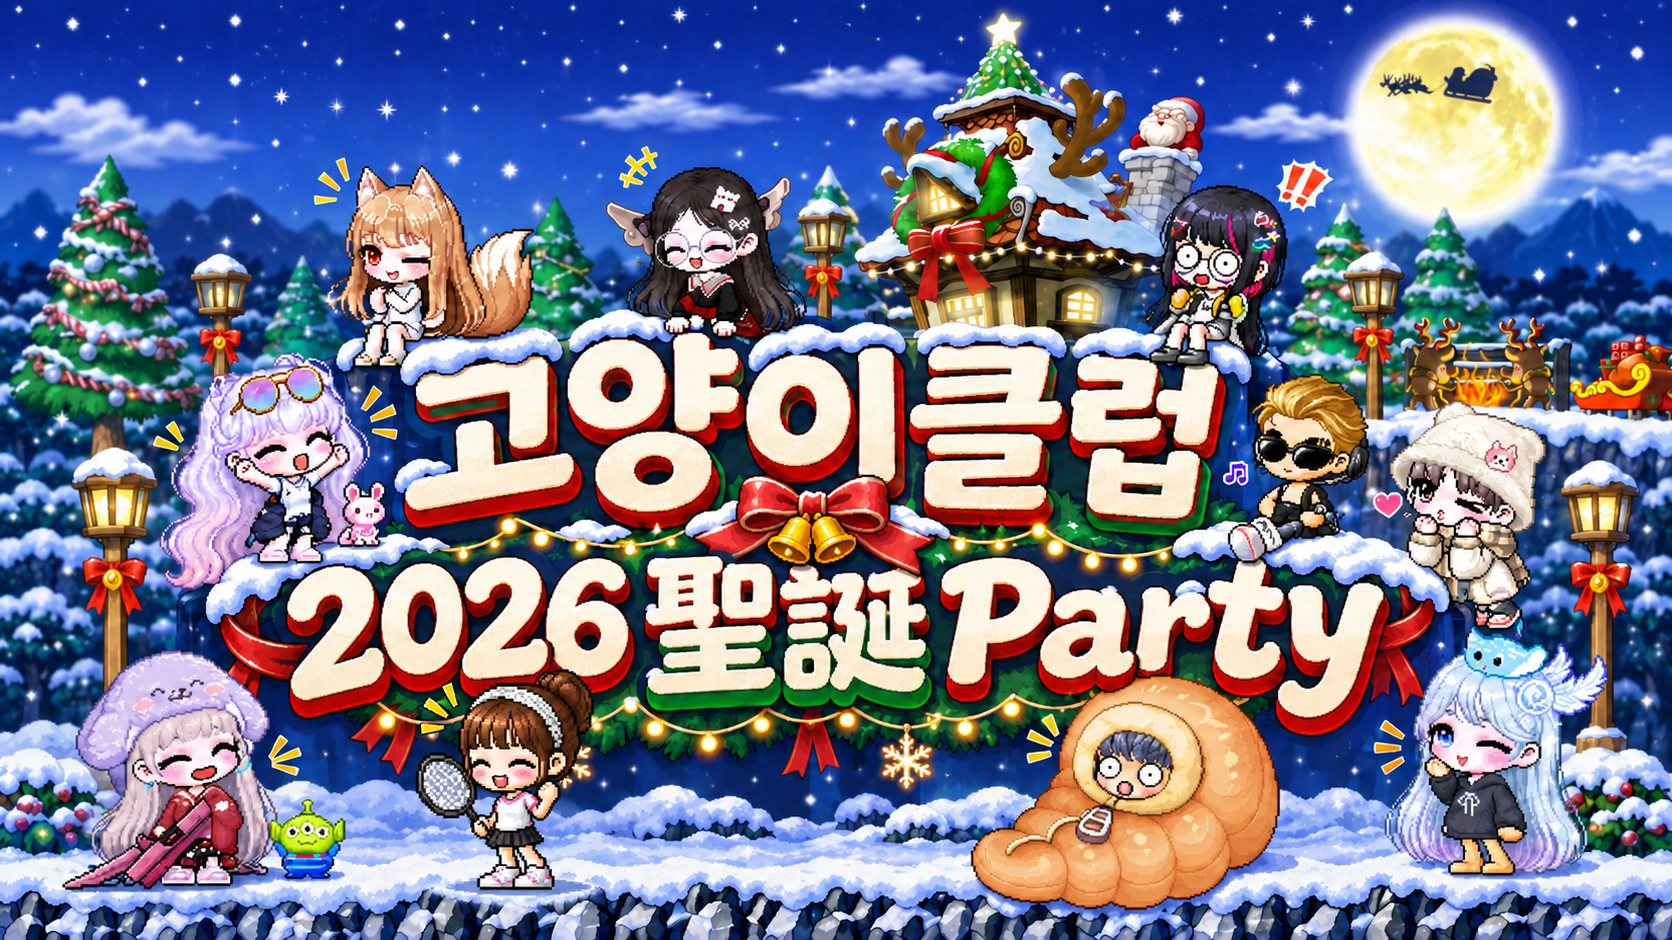
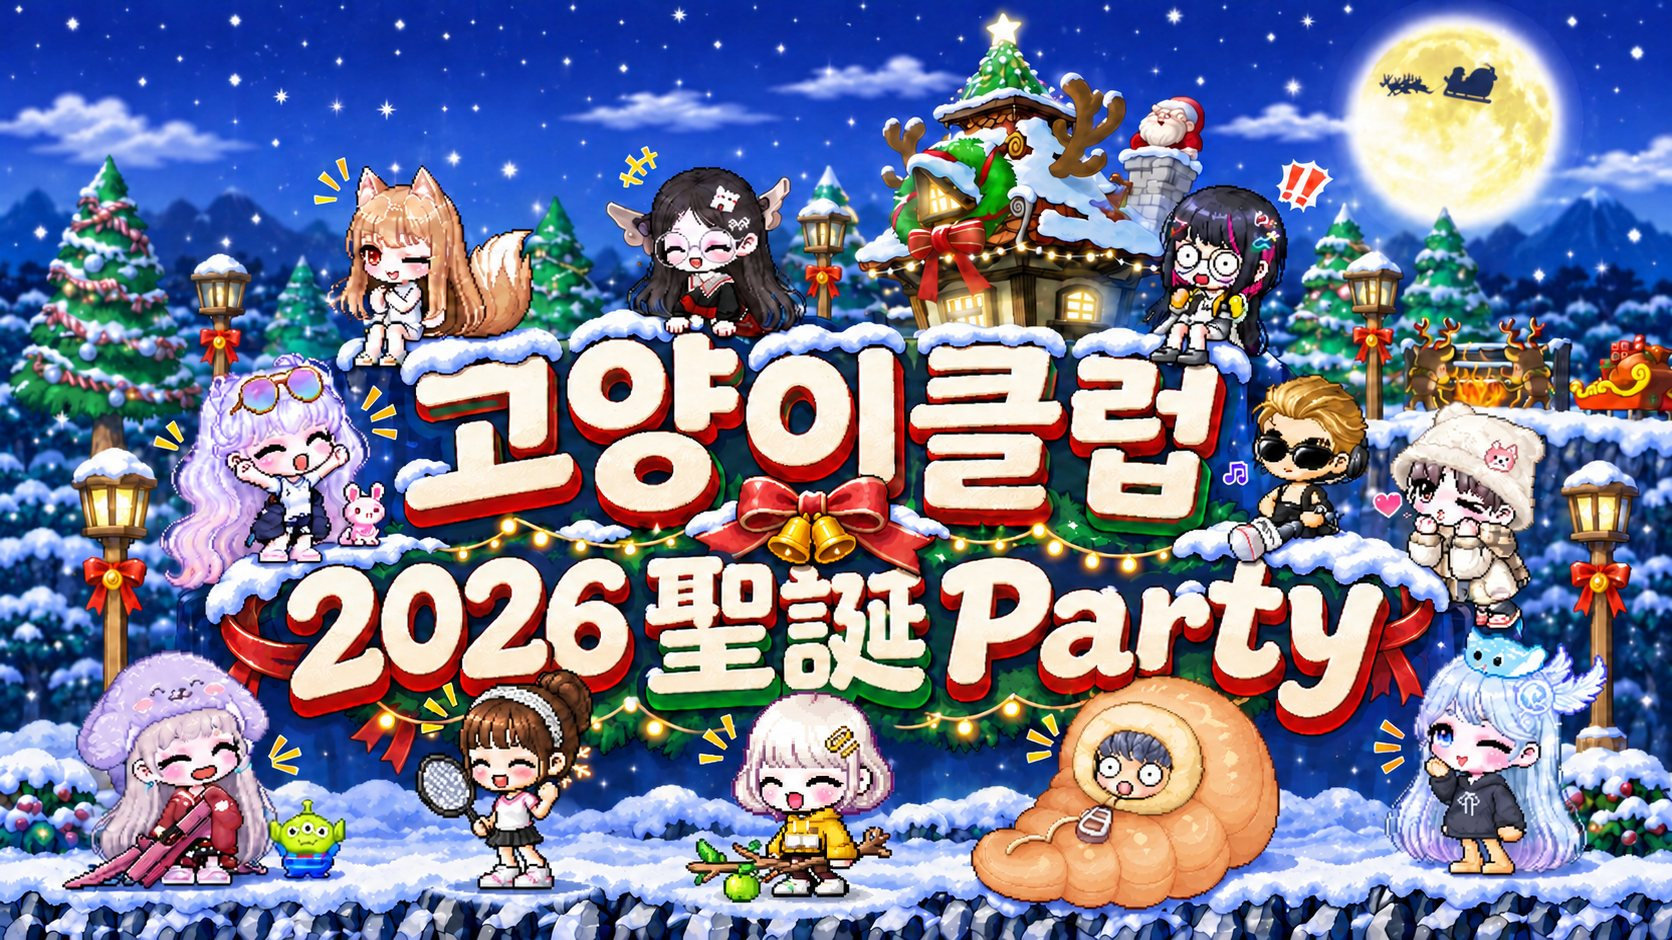
Update hero art with the new member and bust image cache

diff --git a/index.html b/index.html
@@ -6,7 +6,7 @@
 <meta name="description" content="고양이클럽 2026 聖誕 Party 活動預告">
 <meta property="og:title" content="고양이클럽 聖誕 Party">
 <meta property="og:description" content="12 月 12 日，公會聖誕夜。三個活動，規則尚未公告。">
-<meta property="og:image" content="https://hawksmao1213-collab.github.io/catclub-xmas-party/hero.jpg">
+<meta property="og:image" content="https://hawksmao1213-collab.github.io/catclub-xmas-party/hero.jpg?v=2">
 <style>:root{padding-top:env(safe-area-inset-top,0px);padding-bottom:env(safe-area-inset-bottom,0px)}body{margin:0}img{max-width:100%}[hidden]{display:none!important}</style>
 </head>
 <body>
@@ -136,7 +136,7 @@ summary:hover .name { color: var(--gold); }
 <canvas id="snow" aria-hidden="true"></canvas>
 
 <header class="hero">
-  <img src="hero.jpg" alt="고양이클럽 2026 聖誕 Party 主視覺，公會成員的角色在雪夜村莊裡" width="1672" height="940" fetchpriority="high">
+  <img src="hero.jpg?v=2"alt="고양이클럽 2026 聖誕 Party 主視覺，公會成員的角色在雪夜村莊裡" width="1672" height="940" fetchpriority="high">
 </header>
 
 <main>
